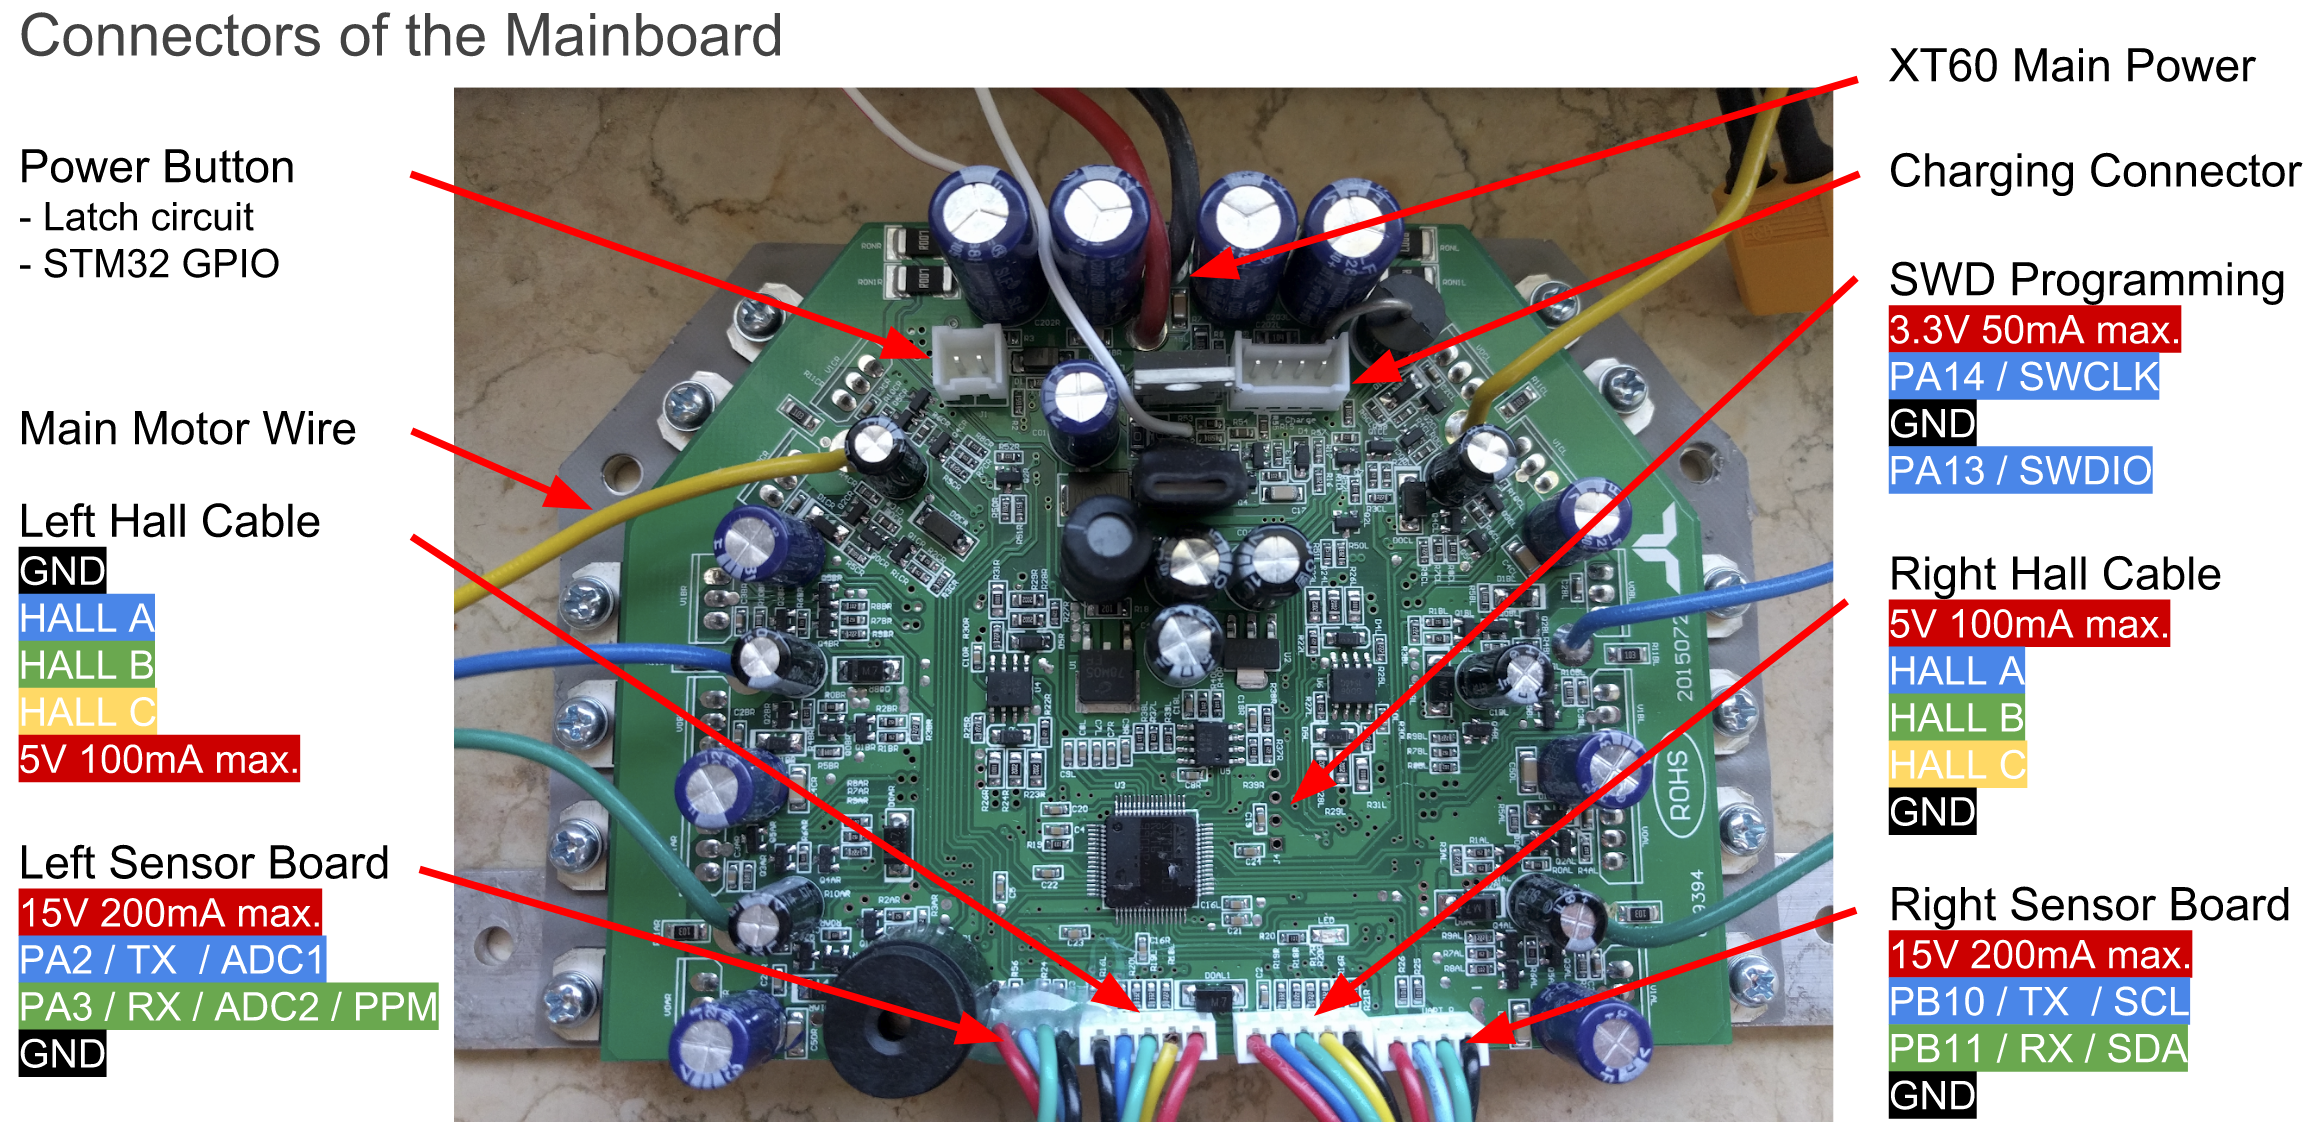
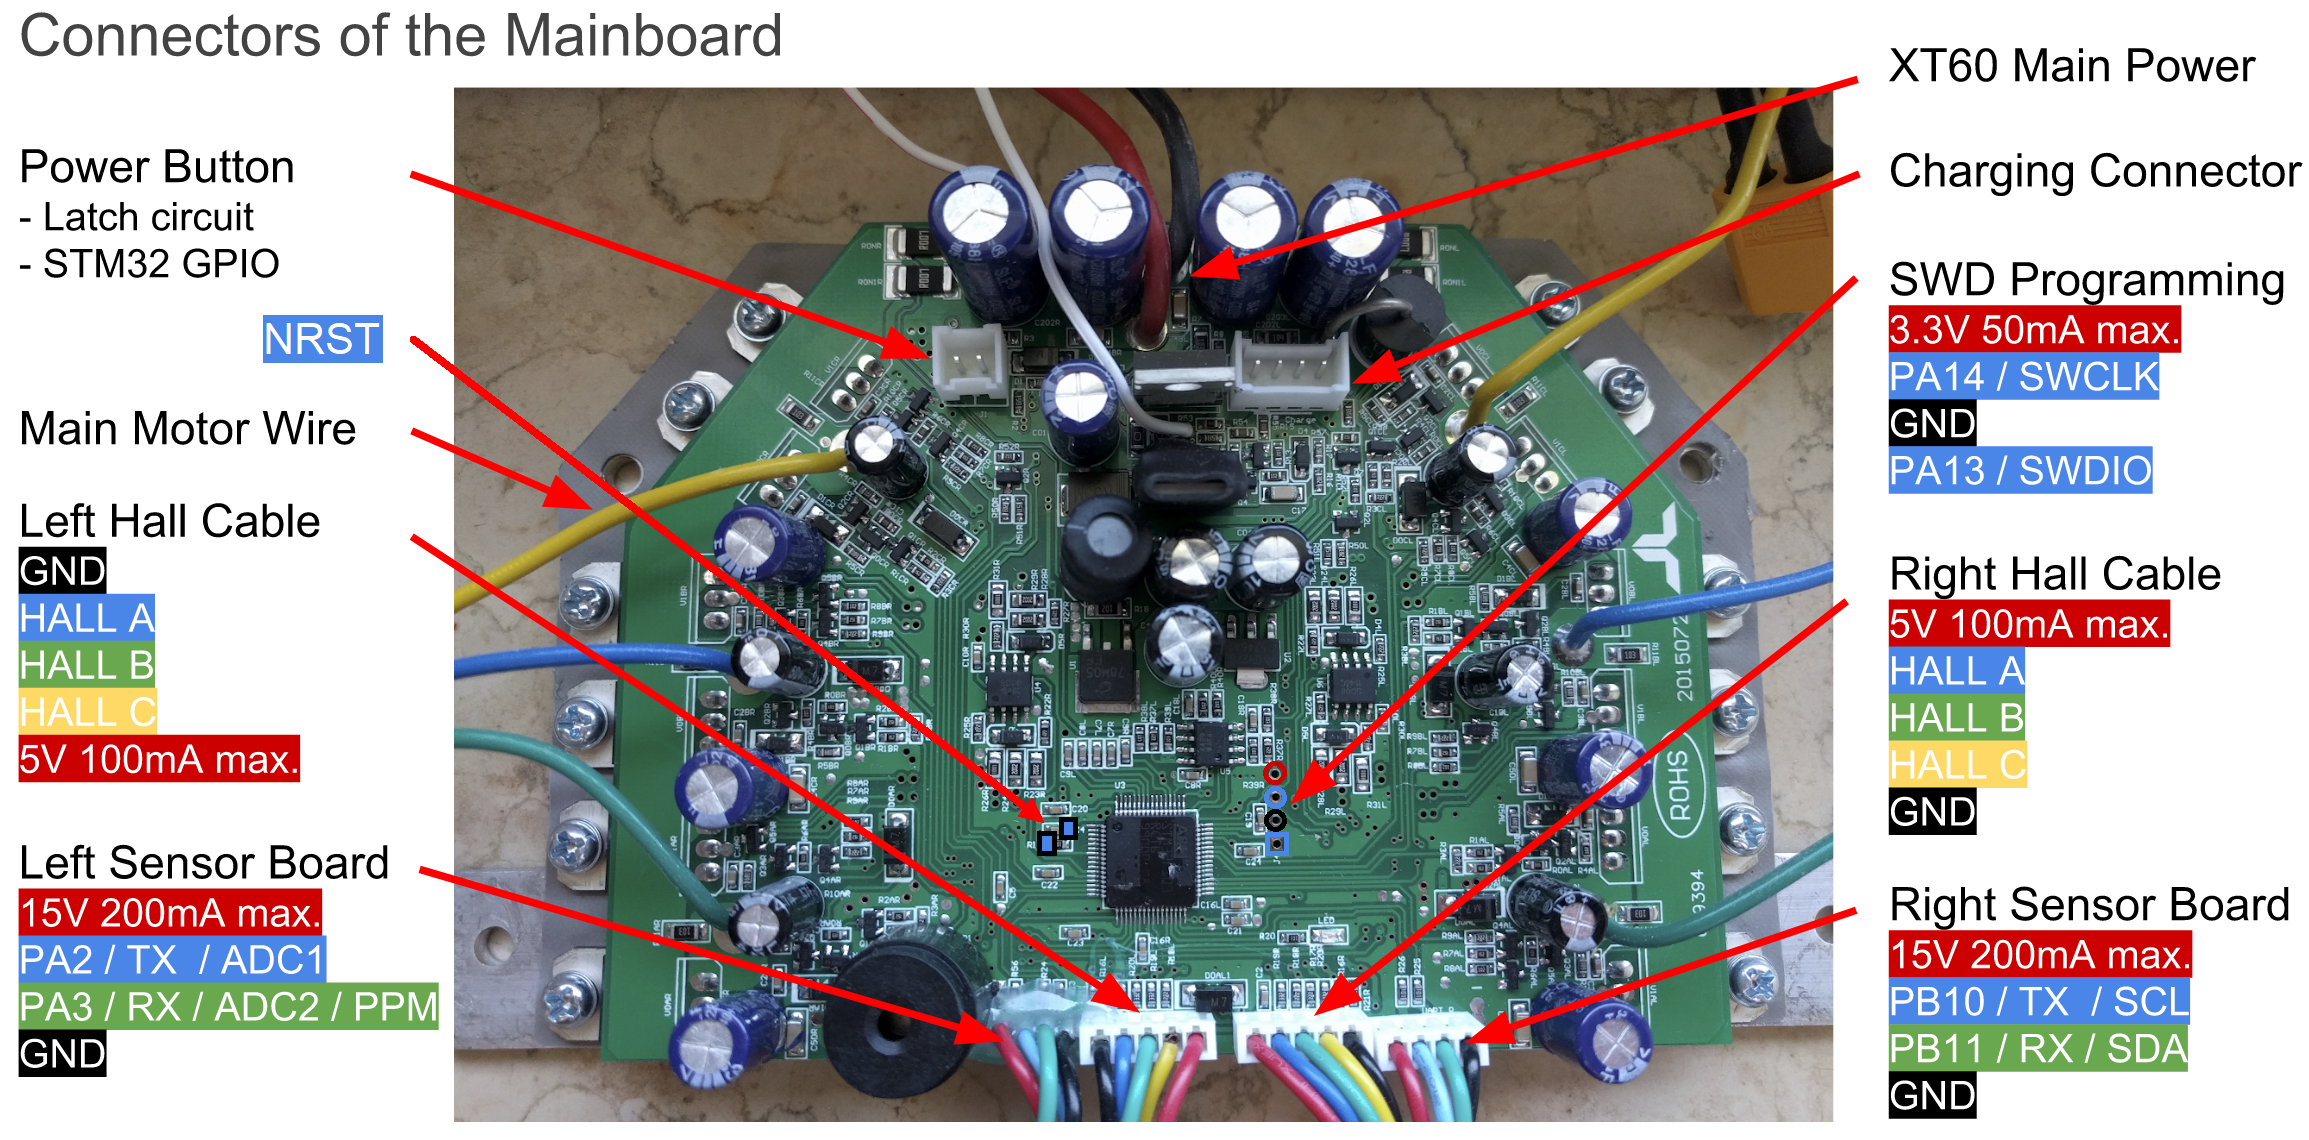
Update documentation

diff --git a/Docs/pinout.md b/Docs/pinout.md
@@ -1,0 +1,53 @@
+Phase control pins are accordign to following table. There seems to be some 
+confusion between the available schematic and the current firmware, I need to 
+check which notation is correct (which matches the markings on the PCB). Bold 
+means the function used in the firmware.
+
+| Function           | Pin | Pin function                                   |
+|--------------------|-----|------------------------------------------------|
+| Left phase A high  | 41  | PA8<br/>**TIM1_CH1**                           |
+| Left phase A low   | 34  | PB13<br/>**TIM1_CH1N**                         |
+| Left phase B high  | 42  | PA9<br/>**TIM1_CH2**                           |
+| Left phase B low   | 35  | PB14<br/>**TIM1_CH2N**                         |
+| Left phase C high  | 43  | PA10<br/>**TIM1_CH3**                          |
+| Left phase C low   | 36  | PB15<br/>**TIM1_CH3N**                         |
+| Right phase A high | 37  | PC6<br/>**TIM8_CH1**<br/>TIM3_CH1              |
+| Right phase A low  | 23  | PA7<br/>**TIM8_CH1N** / TIM3_CH2<br/>TIM1_CH1N |
+| Right phase B high | 38  | PC7<br/>**TIM8_CH2**<br/>TIM3_CH2              |
+| Right phase B low  | 26  | PB0<br/>TIM3_CH3 / **TIM8_CH2N**<br/>TIM1_CH2N |
+| Right phase C high | 39  | PC8<br/>**TIM8_CH3**<br/>TIM3_CH3              |
+| Right phase C low  | 27  | PB1<br/>TIM3_CH4 / **TIM8_CH3N**<br/>TIM1_CH3N |
+
+
+All other pins are according to following table. Direction shows what is sensible regarding the circuit around the pin. Bold marks the 
+function(s) used in the firmware.
+
+| Function                    | Direction | Pin number | Pin functions                                                               |
+|-----------------------------|-----------|------------|-----------------------------------------------------------------------------|
+| Power LED                   | **O**     | 28         | **PB2** / BOOT1                                                             |
+| Power switch voltage        | **I**     | 15         | PA1<br/>USART2_RTS / ADC123_IN1 / TIM5_CH2 / TIM2_CH2                       |
+| Battery voltage             | **I**     | 10         | PC2<br/>ADC123_IN12                                                         |
+| Power supply enable         | **O**     | 21         | PA5<br/>SPI1_SCK / DAC_OUT2 / ADC12_IN5                                     |
+| Charger connected           | **Ipu**   | 45         | PA12<br/>USART1_RTS / USBDP / CAN_TX / TIM1_ETR                             |
+| Buzzer                      | **O**     | 20         | **PA4**<br/>SPI1_NSS / USART2_CK / DAC_OUT1 / ADC12_IN4                     |
+| Left Hall A                 | **I**/O   | 57         | PB5<br/>I2C1_SMBA / SPI3_MOSI / I2S3_SD<br/>TIM3_CH2 / SPI1_MOSI            |
+| Left Hall B                 | **I**/O   | 58         | PB6<br/>I2C1_SCL / TIM4_CH1<br/>USART1_TX                                   |
+| Left Hall C                 | **I**/O   | 59         | PB7<br/>I2C1_SDA / FSMC_NADV / TIM4_CH2<br/>USART1_RX                       |
+| Left phase B voltage        | **I**     | 24         | PC4<br/>**ADC12_IN14**                                                      |
+| Left phase C voltage        | **I**     | 25         | PC5<br/>**ADC12_IN15**                                                      |
+| Left current                | **I**     | 9          | PC1<br/>**ADC123_IN11**                                                     |
+| Left overcurrent            | **I**     | 33         | PB12<br/>SPI2_NSS/I2S2_WS / I2C2_SMBA / USART3_CK / TIM1_BKIN               |
+| Left UART TX                | I/**O**   | 16         | PA2<br/>USART2_TX / TIM5_CH3 / ADC123_IN2 / TIM2_CH3                        |
+| Left UART RX                | **I**/O   | 17         | PA3<br/>USART2_RX / TIM5_CH4 / ADC123_IN3 / TIM2_CH4                        |
+| Right Hall A                | **I**/O   | 53         | PC12<br/>UART5_TX / SDIO_CK<br/>USART3_CK                                   |
+| Right Hall B                | **I**/O   | 52         | PC11<br/>UART4_RX / SDIO_D3<br/>USART3_RX                                   |
+| Right Hall C                | **I**/O   | 51         | PC10<br/>UART4_TX / SDIO_D2<br/>USART3_TX                                   |
+| Right phase A voltage       | **I**     | 14         | PA0<br/>WKUP / USART2_CTS / **ADC123_IN0** / TIM2_CH1_ETR / TIM5_CH1 / TIM8_ETR |
+| Right phase B voltage       | **I**     | 11         | PC3<br/>**ADC123_IN13**                                                     |
+| Right current               | **I**     | 8          | PC0<br/>**ADC123_IN10**                                                     |
+| Right overcurrent           | **I**     | 22         | PA6<br/>SPI1_MISO / TIM8_BKIN / ADC12_IN6 / TIM3_CH1<br/>TIM1_BKIN          |
+| Right UART TX               | I/**O**   | 29         | PB10<br/>I2C2_SCL / USART3_TX<br/>TIM2_CH3                                  |
+| Right UART RX               | **I**/O   | 30         | PB11<br/>I2C2_SDA / USART3_RX<br/>TIM2_CH4                                  |
+| SWDIO                       | I/O       | 46         | **JTMS-SWDIO**<br/>PA13                                                     |
+| SWCLK                       | I/O       | 49         | **JTCK-SWCLK**<br/>PA14                                                     |
+| NRST                        | **I**     | 7          | **NRST**                                                                    |

diff --git a/Docs/units.md b/Docs/units.md
@@ -1,0 +1,34 @@
+# Hoverboard firmware
+This document is part of the hoverboard firmware documentation.
+
+## Units
+This document describes how different units of measure are represented in the firmware.
+
+### Fixed point
+To speed up calculations, fixed point arithmetic is used. In the selected notation the floating 
+point values is multiplied by 4096 and then converted to 16 bit signed integer. As a result, the 
+fixed point number can hold values between +-8. The value precision is approximately 0.024 %.
+
+As the value range is quite low, a per unit system is used where most values used lay between 0 and 1.
+
+### Angles
+Angles are represented such that full circle, 360 degrees equals 1.0 in fixed point, i.e. 4096 in decimal.
+The angle resolution is then approximately 0.088 degrees.
+
+Selected like this, 45 degrees happens to be 512 decimal in the fixed point representation. 60 degrees, 
+which is used in the space vector modulation is 682.667 which is not integer, but hopefully the 
+small error does not affect the modulation quality.
+
+### Per-unit system
+Voltages and currents are represented in per-unit values. For this representation, base values are 
+first selected.
+
+The base voltage is the nominal peak voltage of the motor, running at nominal speed. At this point 
+it is selected to be 36 V which is the typical voltage of the battery.
+
+The base current is selected to be 5 A at the moment.
+
+The base frequency is currently not known. It should be the speed at which the nominal voltage is 
+achieved (back-emf).
+
+All the values are then scaled such that 1.0 represents the base value, voltage, current or speed.
